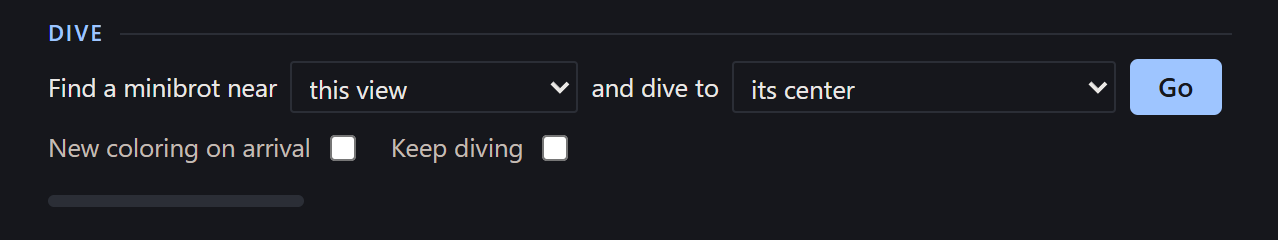
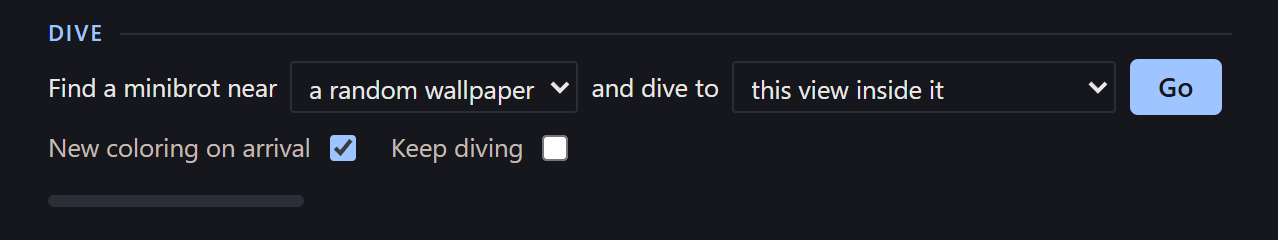
Dive block defaults: a random wallpaper, this view inside it; retake deep-dive-block
The sentence opens as "Find a minibrot near a random wallpaper and dive to this view inside
it". New coloring on arrival and Keep diving both stay off by default. The screenshot maker
can now click controls through the page before a shot, and deep-dive-block is retaken with
New coloring on arrival ticked that way; its alt says so. On Deep zoom, the sentence in
The multibrots now says that each iteration costs more as the degree rises, which
perturb-wasm's per-degree table measures (4.9 to 23.0 ns from degree 2 to 6).

Changed region(s): [[0.2441, 0.3208, 0.4272, 0.4375], [0.5798, 0.3208, 0.7629, 0.4375], [0.2441, 0.5542, 0.3052, 0.6708]]

diff --git a/article/deep-zoom.html b/article/deep-zoom.html
@@ -242,7 +242,7 @@
     temporary Dives collection that you can browse and save from.</p>
 
       <figure class="figure" data-figure="deep-dive-block">
-        <img src="../assets/images/figures/deep-dive-block.png" width="1278" height="240" alt="The Dive block on the explorer's dark panel: the sentence “Find a minibrot near this view and dive to its center” with its two dropdowns and a Go button, and under it two unticked boxes, New coloring on arrival and Keep diving." loading="lazy">
+        <img src="../assets/images/figures/deep-dive-block.png" width="1278" height="240" alt="The Dive block on the explorer's dark panel: the sentence “Find a minibrot near a random wallpaper and dive to this view inside it” with its two dropdowns and a Go button, and under it two boxes, New coloring on arrival ticked and Keep diving unticked." loading="lazy">
         <figcaption>The Dive block in the Deep tab.</figcaption>
       </figure>
 
@@ -416,9 +416,10 @@
 
     <h2 id="the-multibrots">The multibrots</h2>
 
-    <p>The deep rendering techniques on this page work just as well on the multibrots and
-    their Julia sets. Their deep areas are full of rich detail, and learning to navigate
-    them well is a key part of making fractal artwork.</p>
+    <p>The deep rendering techniques on this page work on the multibrots and their Julia
+    sets too, though each iteration costs more as the degree rises. Their deep areas are
+    full of rich detail, and learning to navigate them well is a key part of making
+    fractal artwork.</p>
 
       <figure class="figure figure-split" data-figure="deep-multibrots">
         <div class="figure-panels" style="--figure-across: 2">

diff --git a/explorer/index.html b/explorer/index.html
@@ -143,13 +143,13 @@
           <label for="dive-from">Find a minibrot near</label>
           <select id="dive-from">
             <option value="view">this view</option>
-            <option value="seat">a random wallpaper</option>
+            <option value="seat" selected>a random wallpaper</option>
           </select>
           <label for="dive-to">and dive to</label>
           <select id="dive-to">
             <option value="center">its center</option>
             <option value="halfway">halfway in</option>
-            <option value="view">this view inside it</option>
+            <option value="view" selected>this view inside it</option>
             <option value="seat">a random wallpaper inside it</option>
           </select>
           <button type="button" class="deep-render dive-go" id="dive-go">Go</button>

diff --git a/builder/screenshots.py b/builder/screenshots.py
@@ -48,6 +48,9 @@ class Shot:
     about: str
     query: str
     selector: str
+    #: Controls clicked through the page before the shot, in order, each by its selector:
+    #: what a reader would press, so the page's own handlers run and nothing is a default.
+    clicks: tuple[str, ...] = ()
 
 
 @dataclass(frozen=True)
@@ -57,12 +60,16 @@ class Drawn:
 
 
 def dive_block() -> Shot:
-    """The Deep tab's Dive block as a first visit shows it: the sentence at its defaults,
-    both boxes unticked, on the Mandelbrot plane at the tab's opening view."""
+    """The Deep tab's Dive block: the sentence at its defaults, on the Mandelbrot plane at the
+    tab's opening view, with New coloring on arrival ticked through the page for the shot and
+    Keep diving left unticked (Matt, dive_defaults_ckpt154). The box is off by default; it is
+    ticked here because the figure shows what a dive can do, not what a first visit sees."""
     return Shot(
-        about="the Dive block of the explorer's Deep tab, as a first visit shows it",
+        about="the Dive block of the explorer's Deep tab at its default sentence, with New "
+        "coloring on arrival ticked by a click on the page and Keep diving unticked",
         query="?panel=deep",
         selector="#dive",
+        clicks=("#dive-color",),
     )
 
 
@@ -105,6 +112,7 @@ def draw(identifier: str) -> Drawn:
         "width": WIDTH,
         "height": HEIGHT,
         "scale": SCALE,
+        "clicks": list(shot.clicks),
     }
     server, thread = _served(PORT)
     try:
@@ -120,7 +128,9 @@ def draw(identifier: str) -> Drawn:
         f"no render: a screenshot of {shot.about}. builder.screenshots:{maker} "
         "serves the committed tree and builder/screenshot.mjs photographs "
         f"explorer/index.html{shot.query} over CDP in headless Chrome, a {WIDTH}x{HEIGHT} "
-        f"window at device scale {SCALE}, clipped to {shot.selector} once the page is at "
+        f"window at device scale {SCALE}, "
+        + (f"clicking {', '.join(shot.clicks)} through the page, then " if shot.clicks else "")
+        + f"clipped to {shot.selector} once the page is at "
         "rest; `python -m builder screenshot "
         f"{identifier} --replace` takes it again",
     )

diff --git a/explorer/README.md b/explorer/README.md
@@ -2545,6 +2545,11 @@ At the top of the tab's left panel, one sentence whose two blanks are dropdowns,
 > Find a minibrot near [this view | a random wallpaper] and dive to [its center | halfway in
 > | this view inside it | a random wallpaper inside it] **Go**
 
+**It opens as *Find a minibrot near a random wallpaper and dive to this view inside it*** *(Matt,
+dive_defaults_ckpt154)*: the two defaults are the options `index.html` marks `selected`, so a
+first press lands somewhere new at a wallpaper's own framing rather than a step down from
+wherever the tab happens to be. Neither blank is remembered.
+
 Under it, **New coloring on arrival**, off by default and remembered by this browser
 (`explorer.deep-dive-coloring`); then one bar, Cancel, and a status line. A press is Find
 minibrots' own search, a rung, a landing, and a pass of where it landed, and what lands is an
